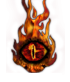
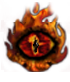
fiery eye. best idea ever!!

diff --git a/Game/MainScreen/CreateBoard/Ui.js b/Game/MainScreen/CreateBoard/Ui.js
@@ -359,17 +359,23 @@ Ui.prototype.setTooltips = function() {
 		
 		//Display Unit Abilities
 		for (var i = 0; i < this.currentUnit.ability.length; i++) { //may need reworking
-			context.fillStyle = this.currentAbilities[i].customValue[0]; this.currentAbilities[i].draw(); //draws as many boxes as there are abilities
-			context.fillStyle = "White";
-			context.fillText(this.currentUnit.ability[i].name, this.currentAbilities[i].x + 1, this.currentAbilities[i].y + 13); //draws text on the abilities-^
-			
-			if (this.currentUnit.ability[i].cooldown > 0) {
-			context.globalAlpha = 0.3;
-			context.fillStyle = "Gray";
-			context.fillRect(this.currentAbilities[i].x, this.currentAbilities[i].y, this.currentAbilities[i].width, this.currentAbilities[i].height);
-			context.fillStyle = "White";
-			context.globalAlpha = 1;
-			context.fillText(this.currentUnit.ability[i].cooldown, this.currentAbilities[i].x + this.currentAbilities[i].width - 20, this.currentAbilities[i].y + 13); }
+		
+			if (this.currentUnit.ability[i].name != null && this.currentUnit.ability[i].name != "" && this.currentUnit.ability[i].name != "None") {
+				context.fillStyle = this.currentAbilities[i].customValue[0]; 
+					
+				this.currentAbilities[i].draw(); //draws as many boxes as there are abilities
+					
+				context.fillStyle = "White";
+				context.fillText(this.currentUnit.ability[i].name, this.currentAbilities[i].x + 1, this.currentAbilities[i].y + 13); //draws text on the abilities-^
+					
+				if (this.currentUnit.ability[i].cooldown > 0) {
+				context.globalAlpha = 0.3;
+				context.fillStyle = "Gray";
+				context.fillRect(this.currentAbilities[i].x, this.currentAbilities[i].y, this.currentAbilities[i].width, this.currentAbilities[i].height);
+				context.fillStyle = "White";
+				context.globalAlpha = 1;
+				context.fillText(this.currentUnit.ability[i].cooldown, this.currentAbilities[i].x + this.currentAbilities[i].width - 20, this.currentAbilities[i].y + 13); }
+			}
 		} 
 		
 		context.restore();

diff --git a/Game/UnitStats.js b/Game/UnitStats.js
@@ -1,5 +1,6 @@
 
 var AllUnits;
+var Summons;
 
 function UnitStats()
 {
@@ -10,17 +11,45 @@ Assassin, Infiltrator, Sensei, Illusionist, /*MirrorImage,*/	//air units
 Crossbowman, Sharpshooter, Ranger, Grovekeeper, 	 			//earth units
 Charger, Ironfist, Inductor, Titan,                  			//lightning units
 IceSpirit, Theurgist, Healer, Rainmaker);			 			//water units
+
+Summons = new Array(
+MirrorImage, FieryEye);
 }
 
 function returnUnitStats(name)
 {
-	for (var i = 0; i < AllUnits.length; i++)
-	{
+	for (var i = 0; i < AllUnits.length; i++) {
+	
 		if (AllUnits[i][0] == name) { return AllUnits[i]; }
+	}
+	
+	for (var i = 0; i < Summons.length; i++) {
+	
+		if (Summons[i][0] == name) { return Summons[i]; }
 	}
 }
 
 //might want to reduce the amount of global variables... make these all private 'this.variables'
+var FieryEye = new Array(
+"Fiery Eye",       //name
+"1",      //hitpoints
+"0",      //damage
+"0",      //defence
+"4",      //movement
+"2",      //sight
+"0",      //range
+"1",      //reveal
+"0",      //#attack
+"0",      //#defend
+"0",      //onAttackAbility
+"0",      //onDefendAbility
+"0, 0",   //auras
+"",   //ability
+"Fire"		//element
+);
+
+
+
 var Vangaurd = new Array(
 "Vangaurd",	//name
 "12",      //hitpoints1
@@ -71,7 +100,7 @@ var Firebringer = new Array(
 "0",      //onAttackAbility
 "0",      //onDefendAbility
 "0, 0",   //auras
-"Torch, Soulfire",   //ability
+"Torch, Fiery Eye",   //ability
 "Fire"		//element
 );
  

diff --git a/Game/MainScreen/CreateBoard/abilities.js b/Game/MainScreen/CreateBoard/abilities.js
@@ -165,7 +165,19 @@ ability.prototype.abilityStats = function(abilityName)
 			}
 			stats.abilityTooltip = abilityName + " ^ ";
 			return stats; 
-					
+			
+		case "Fiery Eye":
+		
+			stats = {
+				cooldown: 3,
+				movementCost: 2,
+				target: "tile",
+				range: 2,
+				abilityTooltip: ""
+			}
+			stats.abilityTooltip = abilityName + " ^ ";
+			return stats;
+			
 		case "Fire Wall":	
 					
 			stats = {
@@ -577,6 +589,11 @@ ability.prototype.cast = function(ability, sourceSpot) //Ability is clicked-> Ab
 			this.castTarget = selfTarget;
 			this.finishCast();
 			finished = true;
+			break;
+			
+		case "Fiery Eye":
+			this.sourceUnit.abilityMarkers("on", this.currentAbilityStats.range);
+			finished = false;						
 			break;
 			
 		case "Fire Wall":

diff --git a/Game/MainScreen/CreateBoard/buff.js b/Game/MainScreen/CreateBoard/buff.js
@@ -443,6 +443,24 @@
 						break;
 				}   
 			break;
+
+			case "Fiery Eye":
+			
+				switch(Procedure) {
+				
+					case "Initialize":
+						console.warn(FieryEye);
+						var eye = GameBoard.CreateUnit(this.sourceUnit.alliance, FieryEye[0], this.targetSpot.x, this.targetSpot.y);
+
+						eye.currentStats[4] = 0;
+												
+						eye.summon = true;
+						eye.turnCost = false;
+
+					break;
+
+				}
+			break;
 			
 			case "Fire Wall":
 				

diff --git a/Game/MainScreen/CreateBoard/Grid.js b/Game/MainScreen/CreateBoard/Grid.js
@@ -132,7 +132,7 @@
 				if (this.currentUnit.unitStealth == true) {context.globalAlpha = 1; } 
 				
 				if (this.currentUnit.summon == true && this.currentUnit.alliance == "ally") {
-				context.globalAlpha = 0.5;
+				context.globalAlpha = 0.40;
 				context.drawImage(Images[112], this.ThisRectangle.x, this.ThisRectangle.y, this.ThisRectangle.width,
 				this.ThisRectangle.height); context.globalAlpha = 1;}
 				}

diff --git a/Game/Game.js b/Game/Game.js
@@ -110,6 +110,7 @@
 	  
 	  Images[113].src = "Game/Images/abilities/mist.png";
 	  Images[114].src = "Game/Images/abilities/sentry.png";
+	  Images[115].src = "Game/Images/Units/fire-eye.png";
 	  
 	}
 	
@@ -156,6 +157,7 @@
 			case "Theurgist": return 37; 
 			case "Healer": return 38;
 			case "Rainmaker": return 39; 
+			case "Fiery Eye": return 115;
 			}
 			
 	}
